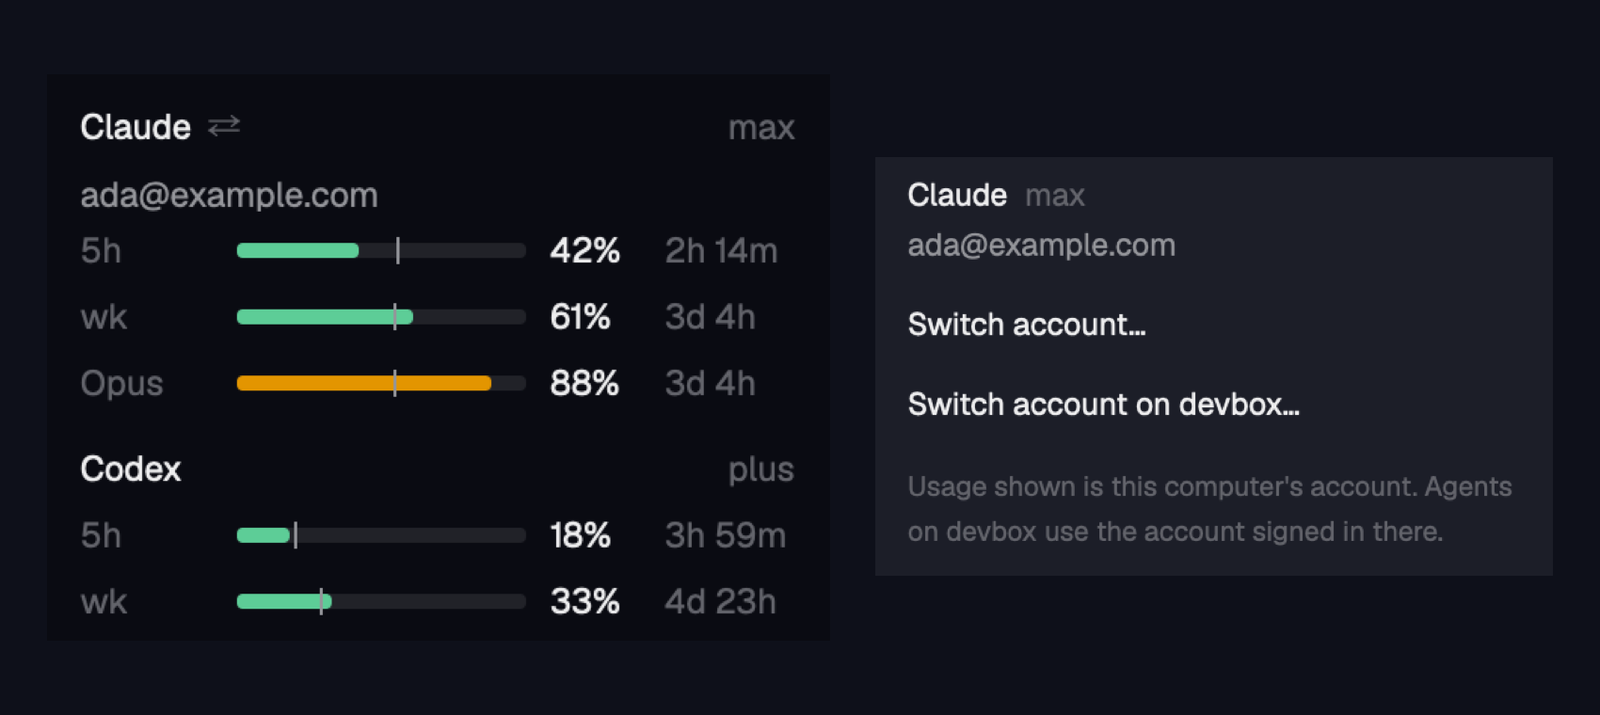
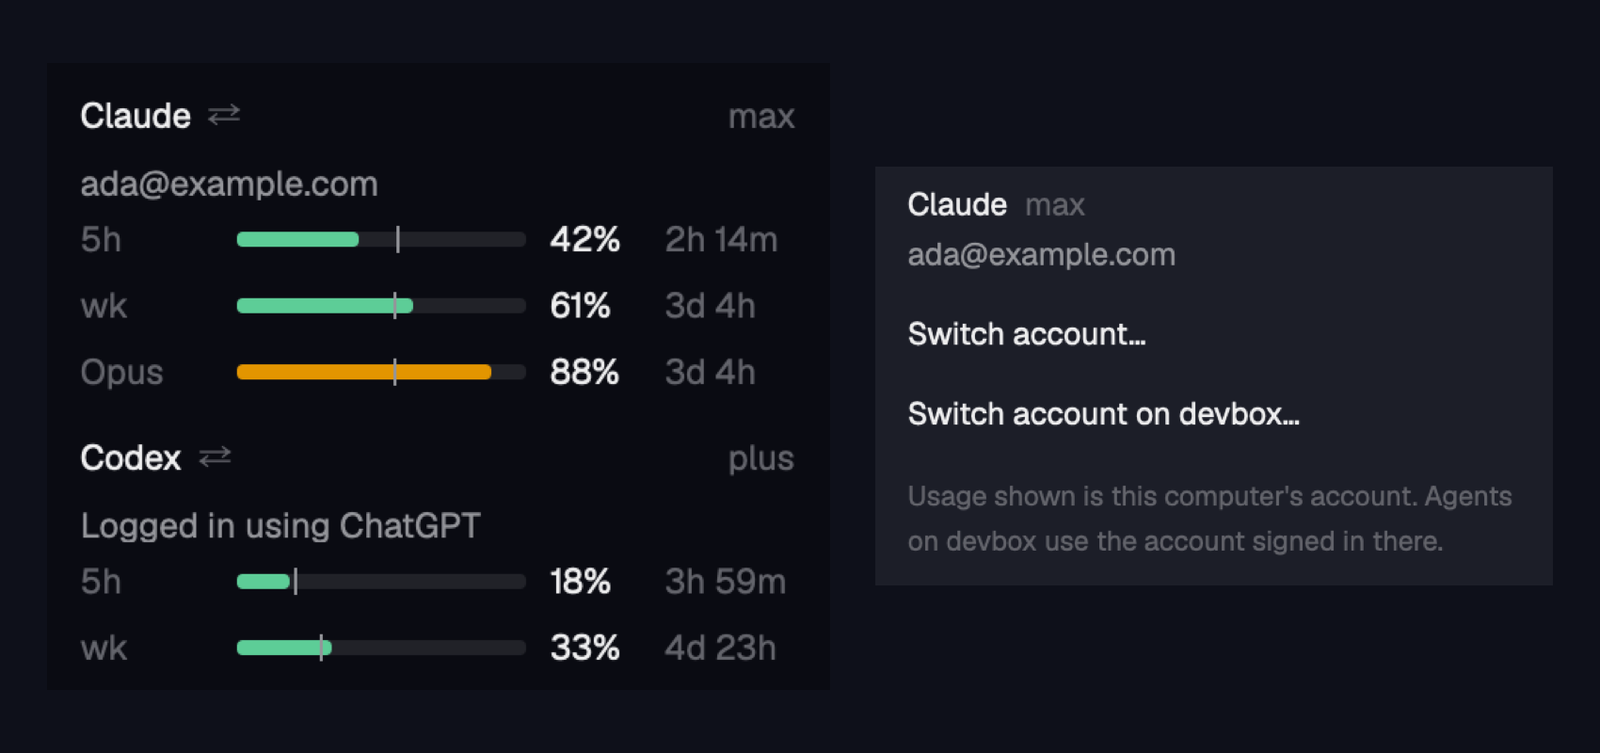
Usage card: who is signed in and Switch account for every vendor
Claude Code, Codex and OpenCode Go come from a table of status and sign-in
commands; props can add a vendor or replace one. The recipes open with what
each mod is for and how it differs, since the gallery shows that paragraph.

diff --git a/usage-card/mods/usage-card/main.js b/usage-card/mods/usage-card/main.js
@@ -3,35 +3,66 @@ import { h_flex, v_flex } from "gpui-base";
 import { exec, layout, openOverlay, closeOverlay, props, run, shared, setShared, spaces, theme, checking } from "herdr";
 
 // Plan limits as a card in the sidebar, like the machine-pulse card: one row a limit with a bar, the
-// percent used and the time to reset. It reads what the usage-limits mod publishes in shared state
-// ("usage-limits.state"), so that mod must be in the layout too; this one asks nobody anything.
-// It also shows which account is signed in (`claude auth status`), and a click on the account opens a
-// small menu to switch: Claude's own sign-in (`claude auth login`) in a new tab.
-// Props: { names: { "<provider id>": "Label" }, configDirs: { "<provider id>": "~/.claude-work" } }.
+// percent used and the time to reset. The limits are what the usage-limits mod publishes in shared
+// state ("usage-limits.state"), so that mod must be in the layout too.
+// The card also says who is signed in to each vendor, and a click on a vendor opens a small menu to
+// switch account: the vendor's own sign-in command in a new tab.
+// Props: { names: { "<provider id>": "Label" }, configDirs: { "<claude id>": "~/.claude-work" },
+//          vendors: { "<provider id>": { status: "cmd", login: "cmd" } } } (adds or replaces a vendor).
 const MOD = "usage-card";
-const NAMES = { claude: "Claude", codex: "Codex", "opencode-go": "OpenCode Go", agy: "Antigravity" };
-const isClaude = (id) => id === "claude" || id.startsWith("claude-");
 const REFRESH = "usage-limits.refresh"; // shared: set to now to make usage-limits ask again
-const dirOf = (id) => props()?.configDirs?.[id] ?? null; // null: Claude Code's default folder
-// Who is signed in, per Claude account, on this computer: where usage-limits measures. Shared by copies.
+
+// What the card knows about a vendor: its name, the command that says who is signed in, and the one
+// that signs in. `status` prints JSON ({ loggedIn, email, subscriptionType }) or a line of text.
+const VENDORS = {
+  claude: { name: "Claude", status: "claude auth status --json", login: "claude auth login" },
+  codex: { name: "Codex", status: "codex login status", login: "codex login" },
+  "opencode-go": { name: "OpenCode Go", login: "opencode auth login" },
+  agy: { name: "Antigravity" },
+};
+const isClaude = (id) => id === "claude" || id.startsWith("claude-");
+// A Claude account in its own config folder runs the same commands with CLAUDE_CONFIG_DIR set; one
+// whose folder we were not told gets no commands, rather than the default account's by mistake.
+function vendor(id) {
+  const own = props()?.vendors?.[id];
+  if (isClaude(id) && id !== "claude") {
+    const dir = props()?.configDirs?.[id];
+    const env = dir ? `CLAUDE_CONFIG_DIR="${String(dir).replace(/^~/, "$HOME")}" ` : null;
+    const base = { name: `Claude ${id.slice(7).replace(/^./, (c) => c.toUpperCase())}`, ...(env ? { status: env + VENDORS.claude.status, login: env + VENDORS.claude.login } : {}) };
+    return { ...base, ...own };
+  }
+  return { name: id, ...VENDORS[id], ...own };
+}
+const nameOf = (id) => props()?.names?.[id] ?? vendor(id).name;
+
+// Reads a status command's answer: Claude's JSON, or the first line of text (Codex: "Logged in using ChatGPT").
+function whoFrom(result) {
+  const text = `${result?.stdout ?? ""}`.trim() || `${result?.stderr ?? ""}`.trim();
+  if (!text) return null;
+  try {
+    const j = JSON.parse(text);
+    return j.loggedIn === false ? { label: "", signedOut: true } : { label: j.email ?? j.account ?? "Signed in", plan: j.subscriptionType ?? "" };
+  } catch { /* not JSON: a line of text */ }
+  const line = text.split("\n")[0].replace(/\s+-\s+.*$/, ""); // drop a trailing " - sk-…" key hint
+  return /not logged in|logged out|no credentials/i.test(line) || result.code !== 0 ? { label: "", signedOut: true } : { label: line };
+}
+
+// Who is signed in, per provider, on this computer: where usage-limits measures. Shared by copies.
 const auth = { who: {}, at: 0, rev: 0, watchUntil: 0 };
 async function loadAuth(ids) {
   for (const id of ids) {
-    const dir = dirOf(id);
-    if (id !== "claude" && !dir) continue; // an extra account whose folder we were not told: say nothing rather than guess
-    const cmd = `${dir ? `CLAUDE_CONFIG_DIR="${String(dir).replace(/^~/, "$HOME")}" ` : ""}claude auth status --json`;
-    const r = await exec("sh", ["-c", cmd], { timeout: 15_000 }).catch(() => null);
-    let now = null;
-    try { const j = JSON.parse(r?.stdout ?? ""); now = j.loggedIn ? { email: j.email ?? "", org: j.orgName ?? "", plan: j.subscriptionType ?? "" } : { email: "", signedOut: true }; } catch { /* claude missing or old: no line */ }
-    const before = auth.who[id]?.email;
+    const { status } = vendor(id);
+    if (!status) continue;
+    const r = await exec("sh", ["-c", status], { timeout: 15_000 }).catch(() => null);
+    const now = r && r.code !== 127 ? whoFrom(r) : null; // 127: the vendor's CLI is not installed
+    const before = auth.who[id]?.label;
     auth.who[id] = now;
     // A different account signed in: the limits on show are the old account's, so ask again.
-    if (now && before !== undefined && before !== now.email) setShared(REFRESH, Date.now());
+    if (now && before !== undefined && before !== now.label) setShared(REFRESH, Date.now());
   }
   auth.at = Date.now();
   auth.rev++;
 }
-const nameOf = (id) => props()?.names?.[id] ?? NAMES[id] ?? (isClaude(id) ? `Claude ${id.slice(7).replace(/^./, (c) => c.toUpperCase())}` : id);
 
 const left = (sec) => (sec >= 86400 ? `${Math.floor(sec / 86400)}d ${Math.floor((sec % 86400) / 3600)}h`
   : sec >= 3600 ? `${Math.floor(sec / 3600)}h ${Math.floor((sec % 3600) / 60)}m` : `${Math.max(0, Math.floor(sec / 60))}m`);
@@ -53,18 +84,19 @@ export default class UsageCard extends View {
       const every = Date.now() < auth.watchUntil ? 5000 : 300_000;
       if (Date.now() - auth.at >= every - 100 && !auth.busy) {
         auth.busy = true;
-        try { await loadAuth(this.accounts().length ? this.accounts() : ["claude"]); } finally { auth.busy = false; }
+        try { await loadAuth(this.providers().map((p) => p.id)); } finally { auth.busy = false; }
       }
       if (this.rev !== auth.rev) { this.rev = auth.rev; cx.notify(); }
     });
   }
 
-  // Opens Claude's own sign-in in a new tab: on this computer (a new space) or in the shown space.
+  // Opens the vendor's own sign-in in a new tab: on this computer (a new space) or in the shown space.
   signIn(id, here) {
-    const dir = dirOf(id);
-    const argv = dir ? ["sh", "-c", `CLAUDE_CONFIG_DIR="${String(dir).replace(/^~/, "$HOME")}" claude auth login`] : ["claude", "auth", "login"];
-    if (here) run("space.new", { name: "Claude sign-in", machine: "", argv });
-    else run("tab.new", { name: "Claude sign-in", argv });
+    const { login } = vendor(id), name = `${nameOf(id)} sign-in`;
+    if (!login) return;
+    const argv = /["'$=;|&]/.test(login) ? ["sh", "-c", login] : login.split(/\s+/);
+    if (here) run("space.new", { name, machine: "", argv });
+    else run("tab.new", { name, argv });
     auth.watchUntil = Date.now() + 5 * 60_000;
     closeOverlay(props()?.overlay);
   }
@@ -76,17 +108,12 @@ export default class UsageCard extends View {
     const item = (key, label, click) => div().id(key).px(8).py(6).rounded(4).hover((s) => s.bg(t.hover)).on_click(click).child(label);
     return v_flex().size_full().p(8).bg(t.popover).text_size(12.5).text_color(t.foreground)
       .child(h_flex().px(8).gap(6).child(div().font_semibold().child(nameOf(id))).child(div().text_color(t.dim).child(who?.plan ?? "")))
-      .child(div().px(8).pb(6).text_color(t.muted).truncate().child(who ? (who.signedOut ? "Not signed in" : who.email || "Signed in") : "…"))
+      .child(div().px(8).pb(6).text_color(t.muted).truncate().child(who ? (who.signedOut ? "Not signed in" : who.label) : "…"))
       .child(item("switch", who?.signedOut ? "Sign in…" : "Switch account…", () => this.signIn(id, true)))
       .when(Boolean(remote), (el) => el.child(item("switch-remote", `Switch account on ${remote}…`, () => this.signIn(id, false))))
       .child(div().px(8).pt(8).text_color(t.dim).text_size(11).child(remote
         ? `Usage shown is this computer's account. Agents on ${remote} use the account signed in there.`
-        : "Opens Claude's sign-in in a new tab."));
-  }
-
-  // Every Claude account usage-limits knows, signed in or not.
-  accounts() {
-    return Object.keys(shared("usage-limits.state") || {}).filter(isClaude);
+        : `Opens ${nameOf(id)}'s sign-in in a new tab.`));
   }
 
   // What the card shows: every Claude account, then the other providers that have limits. A failed
@@ -102,7 +129,7 @@ export default class UsageCard extends View {
 
   // Keeps the block as tall as the card, as machine-pulse does.
   fit(list) {
-    const want = list.length ? 21 + list.reduce((h, p) => h + 17 + (isClaude(p.id) && auth.who[p.id] ? 19 : 0) + 22 * Math.max(1, p.windows.length), 0) + 10 * (list.length - 1) : 44;
+    const want = list.length ? 21 + list.reduce((h, p) => h + 17 + (auth.who[p.id] ? 19 : 0) + 22 * Math.max(1, p.windows.length), 0) + 10 * (list.length - 1) : 44;
     if (want === this.want) return;
     this.want = want;
     const node = find(layout(), (n) => n.content?.mod === MOD);
@@ -117,27 +144,30 @@ export default class UsageCard extends View {
     const open = (id) => openOverlay({ mod: MOD, props: { ...props(), view: "menu", account: id }, kind: "dialog", width: 280, height: remote ? 176 : 124 });
     const tone = (p) => (p >= 90 ? t.ansi1 : p >= 75 ? t.ansi3 : t.ansi2);
     const W = 96;
-    const who = (p) => (isClaude(p.id) ? auth.who[p.id] : null);
-    const title = (p) => (isClaude(p.id)
+    // A vendor we know how to sign in to gets a clickable name; the others a plain one.
+    const title = (p) => (vendor(p.id).login
       ? h_flex().id(`account-${p.id}`).gap(5).items_center().rounded(4).hover((s) => s.bg(t.hover)).on_click(() => open(p.id))
         .child(div().text_color(t.foreground).font_semibold().child(nameOf(p.id))).child(div().text_color(t.dim).child("⇄"))
       : div().text_color(t.foreground).font_semibold().child(nameOf(p.id)));
-    const rows = list.map((p) => v_flex().gap(4)
-      .child(h_flex().justify_between().child(title(p))
-        .child(div().text_color(t.dim).child(`${p.plan ?? ""}${p.stale && p.windows.length ? " · old" : ""}`)))
-      .when(Boolean(who(p)), (el) => el.child(div().h(15).text_color(t.muted).truncate().child(who(p).signedOut ? "Not signed in" : who(p).email || "Signed in")))
-      .when(!p.windows.length, (el) => el.child(div().h(18).text_color(t.dim).truncate().child(p.note ?? "No limits reported")))
-      .children(p.windows.map((w) => {
-        // The mark is where the bar would be if usage kept an even pace through the window.
-        const pace = w.durationSec ? Math.min(1, Math.max(0, 1 - (w.resetsAt - now) / w.durationSec)) : null;
-        return h_flex().h(18).gap(8).items_center()
-          .child(div().w(44).truncate().text_color(t.dim).child(w.short ?? w.long ?? ""))
-          .child(div().relative().w(W).h(5).rounded(2).bg(t.border)
-            .child(div().h_full().w((Math.min(100, w.percent) * W) / 100).rounded(2).bg(tone(w.percent)))
-            .when(pace != null, (el) => el.child(div().absolute().top(-2).left(pace * W).w(1).h(9).bg(t.muted))))
-          .child(div().w(30).text_color(t.foreground).child(`${Math.round(w.percent)}%`))
-          .child(div().flex_1().text_color(t.dim).child(w.resetsAt ? left(w.resetsAt - now) : ""));
-      })));
+    const rows = list.map((p) => {
+      const who = auth.who[p.id];
+      return v_flex().gap(4)
+        .child(h_flex().justify_between().child(title(p))
+          .child(div().text_color(t.dim).child(`${p.plan ?? who?.plan ?? ""}${p.stale && p.windows.length ? " · old" : ""}`)))
+        .when(Boolean(who), (el) => el.child(div().h(15).text_color(t.muted).truncate().child(who.signedOut ? "Not signed in" : who.label)))
+        .when(!p.windows.length, (el) => el.child(div().h(18).text_color(t.dim).truncate().child(p.note ?? "No limits reported")))
+        .children(p.windows.map((w) => {
+          // The mark is where the bar would be if usage kept an even pace through the window.
+          const pace = w.durationSec ? Math.min(1, Math.max(0, 1 - (w.resetsAt - now) / w.durationSec)) : null;
+          return h_flex().h(18).gap(8).items_center()
+            .child(div().w(44).truncate().text_color(t.dim).child(w.short ?? w.long ?? ""))
+            .child(div().relative().w(W).h(5).rounded(2).bg(t.border)
+              .child(div().h_full().w((Math.min(100, w.percent) * W) / 100).rounded(2).bg(tone(w.percent)))
+              .when(pace != null, (el) => el.child(div().absolute().top(-2).left(pace * W).w(1).h(9).bg(t.muted))))
+            .child(div().w(30).text_color(t.foreground).child(`${Math.round(w.percent)}%`))
+            .child(div().flex_1().text_color(t.dim).child(w.resetsAt ? left(w.resetsAt - now) : ""));
+        }));
+    });
     return v_flex().size_full().bg(t.chrome).border_t(1).border_color(t.border).px(14).py(10).gap(10).text_size(11.5)
       .children(rows.length ? rows : [div().text_color(t.dim).child("No limits yet (needs the usage-limits mod)")]);
   }

diff --git a/usage-card/RECIPE.md b/usage-card/RECIPE.md
@@ -1,6 +1,6 @@
 # Usage card
 
-Plan limits as a card that stays in the sidebar, for the account that is signed in: one row a limit with a bar, the percent used and the time to reset. It draws what the usage-limits mod collects, names the account, and opens Claude's sign-in to switch to another.
+Plan limits that stay in view, for the account you are signed in to. A sidebar card with one row a limit: a bar, the percent used, the time to reset, and a pace mark that shows whether you are burning faster than an even pace. Where a status bar item needs a hover, this is always on screen. It names who is signed in to Claude Code, Codex or any other vendor, and a click on the vendor switches account by opening its own sign-in in a new tab. It draws what the usage-limits mod collects, so it calls no usage API itself.
 
 ![Usage card](preview.png)
 
@@ -8,21 +8,22 @@ Plan limits as a card that stays in the sidebar, for the account that is signed 
 
 A sidebar block on the `chrome` background with a 1 px top border, 14 px side padding, 10 px above and below, text 11.5 px. One group per provider, 10 px apart:
 
-- A title row: the provider's name in `foreground`, semibold, on the left; its plan (`max`, `plus`) in `dim` on the right, with ` · old` when the last report failed and an earlier one is shown. A Claude account's name is followed by `⇄` and takes the `hover` background under the pointer.
-- Under a Claude account's title, a 15 px line in `muted`: the email it is signed in with, or `Not signed in`.
+- A title row: the provider's name in `foreground`, semibold, on the left; its plan (`max`, `plus`) in `dim` on the right, with ` · old` when the last report failed and an earlier one is shown. A vendor the card can sign in to has `⇄` after its name and takes the `hover` background under the pointer.
+- Under the title, when the vendor says who is signed in, a 15 px line in `muted`: the email (Claude Code), the vendor's own status line (Codex: `Logged in using ChatGPT`), or `Not signed in`.
 - One row per limit, 18 px high: the limit's short name (`5h`, `wk`, `Opus`) in `dim`, 44 px wide; a 96 px by 5 px rounded track in `border`, filled to the percent used; the percent in `foreground`; the time to reset in `dim` (`2h 14m`, `3d 4h`).
 - Fill color: `ansi2` (green) below 75%, `ansi3` (yellow) from 75%, `ansi1` (red) from 90%.
 - A pace mark on each track: a 1 px by 9 px line in `muted` at the share of the limit's window that has passed.
 - A Claude account with no limits shows one `dim` line with the reason usage-limits reported.
 
-**Switch menu** (a dialog 280 px wide, `popover` background, text 12.5 px): the account's name with its plan in `dim`; its email in `muted`; the entry `Switch account…` (`Sign in…` when nobody is signed in); when the shown space is on another machine, a second entry `Switch account on <machine>…`; then one `dim` line of 11 px saying what the entries do.
+**Switch menu** (a dialog 280 px wide, `popover` background, text 12.5 px): the vendor's name with the plan in `dim`; who is signed in, in `muted`; the entry `Switch account…` (`Sign in…` when nobody is signed in); when the shown space is on another machine, a second entry `Switch account on <machine>…`; then one `dim` line of 11 px saying what the entries do.
 
 ## How it behaves
 
 - It redraws when usage-limits publishes new numbers, and once a minute so the time to reset moves on.
-- Every 5 minutes it asks who is signed in: `claude auth status --json` on this computer.
-- A click on a Claude account opens the menu. `Switch account…` opens a new space on this computer running `claude auth login`. `Switch account on <machine>…` opens a new tab in the shown space running the same. The person finishes the sign-in in their browser.
-- For 5 minutes after a switch was opened, it asks who is signed in every 5 seconds. When the email changes it sets shared `usage-limits.refresh`, so usage-limits fetches the new account's limits.
+- Every 5 minutes it asks each shown vendor who is signed in, with that vendor's status command, on this computer.
+- A click on a vendor opens the menu. `Switch account…` opens a new space on this computer running the vendor's sign-in command. `Switch account on <machine>…` opens a new tab in the shown space running the same. The person finishes the sign-in themselves.
+- For 5 minutes after a switch was opened, it asks who is signed in every 5 seconds. When the answer changes it sets shared `usage-limits.refresh`, so usage-limits fetches the new account's limits.
+- A vendor without a status command has no line; one without a sign-in command has a plain name and no menu.
 - Other providers (Codex, OpenCode Go, Antigravity) are shown when they have limits.
 - A provider usage-limits has stopped reporting (11 minutes behind the newest report) is left out.
 - The block sets its own height from the rows shown.
@@ -32,28 +33,34 @@ A sidebar block on the `chrome` background with a 1 px top border, 14 px side pa
 ## Built from
 
 - One mod, `mods/usage-card/`: `main.js` and `mod.json` (`{ "place": "none", "overlay": { "width": 280, "height": 176 } }`).
-- Props, all optional: `{ "names": { "<provider id>": "Label" }, "configDirs": { "<provider id>": "~/.claude-work" } }`. The account `claude` uses Claude Code's default folder. Another account is asked only when `configDirs` names its folder, with `CLAUDE_CONFIG_DIR` set. `{ "view": "menu", "account": "<id>" }` is the menu.
+- A table of vendors, by usage-limits' provider id: `claude` (`claude auth status --json`, `claude auth login`), `codex` (`codex login status`, `codex login`), `opencode-go` (`opencode auth login`, no status), `agy` (name only). A status command prints JSON (`loggedIn`, `email`, `subscriptionType`) or text, whose first line is shown; exit code 127 means the CLI is missing; a line saying not logged in, or a non-zero exit, means signed out; anything after ` - ` on a text line is dropped, since some CLIs print a key hint there.
+- Props, all optional: `{ "names": { "<id>": "Label" }, "configDirs": { "<claude id>": "~/.claude-work" }, "vendors": { "<id>": { "name", "status", "login" } } }`. `vendors` adds a vendor or replaces a built-in one's commands. The account `claude` uses Claude Code's default folder; another Claude account gets its commands only when `configDirs` names its folder, run with `CLAUDE_CONFIG_DIR` set. `{ "view": "menu", "account": "<id>" }` is the menu.
 - From `herdr`: `exec`, `shared`, `setShared`, `layout`, `spaces`, `openOverlay`, `closeOverlay`, `run` (`layout.resize`, `space.new`, `tab.new`), `props`, `theme`, `checking`.
 - Reads shared `usage-limits.state`: an object of providers, each `{ report, lastGood }`, a report being `{ status, plan, message, observedAt, windows: [{ short, percent, resetsAt, durationSec }] }`. Claude accounts are the ids `claude` and `claude-<suffix>`.
 - Writes shared `usage-limits.refresh` (now, in ms) when the signed-in email changes.
-- Who is signed in is module-level state shared by copies: per account `{ email, org, plan }` or `{ signedOut }`.
-- `test.mjs` runs the account lookup, the menu and the switch entries with the app's functions faked.
+- Who is signed in is module-level state shared by copies: per provider `{ label, plan }` or `{ signedOut }`.
+- `test.mjs` runs the lookup for Claude, a second Claude folder, Codex and a vendor added by props, then the menu and the switch entries, with the app's functions faked.
 
 ## Watch out
 
 - It depends on the shape of another mod's shared state. If usage-limits changes it, the card shows nothing or the wrong rows.
 - usage-limits must be in the shown layout, or nothing is collected.
 - The limits are measured where Herdr runs. Switching the account on another machine changes what agents there use, not the numbers; the menu says so.
-- The only program it runs by itself is `claude auth status`. It never signs anyone in or out: the switch is Claude's own command in a terminal the person sees. Never add limit polling here.
+- The only programs it runs by itself are the vendors' status commands. It never signs anyone in or out: the switch is the vendor's own command in a terminal the person sees. Never add limit polling here.
+- Never read a vendor's credential file to find an email; show what its status command prints, or nothing.
+- A sign-in command with quotes, `$`, `=` or pipes runs through `sh -c`; a plain one is split on spaces.
 - Keep the menu to the one account that was clicked. A list of every account with two entries each was tried and read as a wall of choices.
 - Open the menu as a dialog: the card sits low in the sidebar, where a popup at the pointer would be cut off.
 - Don't guess the folder of an extra account: without `configDirs` its email line is left out.
-- An old `claude` without `auth status --json` gives no email line; the card still works.
+- A CLI that is missing or too old for its status command gives no line; the card still works.
+- Codex's commands were written from its CLI's documented `login` and `login status`; check them on a machine that has Codex.
 - Don't call `layout.resize` on every render: only when the wanted height changed.
 
 ## Done when
 
 - `herdr-app check mods/usage-card` passes and `node test.mjs` prints `ok`.
 - With usage-limits in the layout, the card shows each limit with a bar, a percent and a time to reset, the email of the signed-in account under its name, and the block is as tall as its rows.
-- A click on the account opens the menu; `Switch account…` opens a tab running `claude auth login`, and after signing in as someone else the card shows the new email and new limits within a few seconds.
+- A click on Claude opens the menu; `Switch account…` opens a tab running `claude auth login`, and after signing in as someone else the card shows the new email and new limits within a few seconds.
+- With Codex installed, its group shows its status line and its menu opens `codex login`.
+- A vendor added through `vendors` shows its line and gets a menu.
 - `herdr-app status` lists no errors.

diff --git a/README.md b/README.md
@@ -6,7 +6,7 @@ They are unofficial and not affiliated with Herdr. See also [Machine Pulse](http
 
 ## Usage card
 
-Your plan limits as a card that stays in the sidebar, for the account you are signed in to: one row a limit with a bar, the percent used and the time to reset. A click on the account lets you switch to another one.
+Your plan limits as a card that stays in the sidebar, for the account you are signed in to: one row a limit with a bar, the percent used and the time to reset. A click on a vendor lets you switch account.
 
 ![Usage card](usage-card/preview.png)
 
@@ -17,13 +17,14 @@ It is a companion to [usage-limits](https://github.com/nozikov/herdr-usage-limit
 What it adds:
 
 - **Always visible.** No hover: 5-hour, weekly and per-model limits for Claude Code, Codex and the other providers usage-limits knows, in the sidebar.
-- **Whose limits they are.** The card names the account Claude Code is signed in to (its email, from `claude auth status`), so the numbers are never mistaken for another account's.
-- **Switch account from the card.** A click on the account opens a two-line menu. **Switch account…** opens Claude's own sign-in (`claude auth login`) in a new tab. When the space you are in runs on another machine, a second entry does the same there. After you sign in, the card shows the new account and asks usage-limits for fresh numbers.
+- **Whose limits they are.** Under each vendor the card says who is signed in: the email for Claude Code, the vendor's own status line for Codex.
+- **Switch account from the card, for any vendor.** A click on the vendor opens a two-line menu. **Switch account…** opens the vendor's own sign-in in a new tab (`claude auth login`, `codex login`, `opencode auth login`). When the space you are in runs on another machine, a second entry does the same there. After you sign in, the card shows the new account and asks usage-limits for fresh numbers.
+- **Add your own vendor.** Tell the card a status command and a sign-in command and any CLI gets the same line and menu.
 - **A pace mark on every bar.** The thin line is where the bar would be if you used the limit evenly until it resets, so one look says whether you are ahead of pace.
-- **Almost no cost of its own.** The limits come from what usage-limits already publishes in Herdr's shared state. The card itself only runs `claude auth status` every 5 minutes. It makes no request and reads no file.
+- **Almost no cost of its own.** The limits come from what usage-limits already publishes in Herdr's shared state. The card itself only runs each vendor's status command every 5 minutes. It makes no request and reads no credential file.
 - **Sizes itself.** The block grows and shrinks with the limits shown.
 
-Good to know: the limits are those of the account signed in **on the computer Herdr runs on**, because that is where usage-limits asks. Switching the account on another machine changes what agents there use, not the numbers shown; the menu says so.
+Good to know: the limits are those of the account signed in **on the computer Herdr runs on**, because that is where usage-limits asks. Switching the account on another machine changes what agents there use, not the numbers shown; the menu says so. The Codex commands are the ones its CLI documents; they were not tried on a machine with Codex.
 
 Install (after usage-limits is in your layout):
 
@@ -38,11 +39,19 @@ Then add the block to the sidebar column of a layout of your own, for example ab
 { "id": "usage-card", "type": "block", "size": { "px": 82 }, "content": { "mod": "usage-card" } }
 ```
 
-With one Claude account there is nothing to set. If you gave usage-limits several (`claudeAccounts`), each gets its own group on the card; tell the card their folders so it can name who is signed in to each, and labels if you like:
+With one account per vendor there is nothing to set. Optional props:
 
 ```json
-"props": { "names": { "claude-work": "Work" }, "configDirs": { "claude-work": "~/.claude-work" } }
+"props": {
+  "names": { "claude-work": "Work" },
+  "configDirs": { "claude-work": "~/.claude-work" },
+  "vendors": { "mytool": { "name": "My Tool", "status": "mytool whoami", "login": "mytool login" } }
+}
 ```
+
+- `names`: your labels, by usage-limits' provider id.
+- `configDirs`: the folder of each extra Claude account you gave usage-limits (`claudeAccounts`), so the card can say who is signed in to it.
+- `vendors`: add a vendor, or replace a built-in one's commands. `status` prints who is signed in (JSON with `email`, or a line of text); `login` signs in.
 
 ## Layout toggle
 

diff --git a/layout-toggle/RECIPE.md b/layout-toggle/RECIPE.md
@@ -1,6 +1,6 @@
 # Layout toggle
 
-A button that shows or hides one node of the layout, lit while that node is shown. Put it in the tab bar's row to give another mod's side panel a button like Herdr's own Files and Changes.
+A button for any part of your layout. Herdr's tab bar has buttons only for its own Files and Changes panels; a panel another mod adds has none, just a key if you bind one. Layout toggle is one small button that shows or hides the layout node you name, and is lit while that node is shown. Put it in the tab bar's row, a status bar or a sidebar, one button a panel.
 
 ![Layout toggle](preview.png)
 
